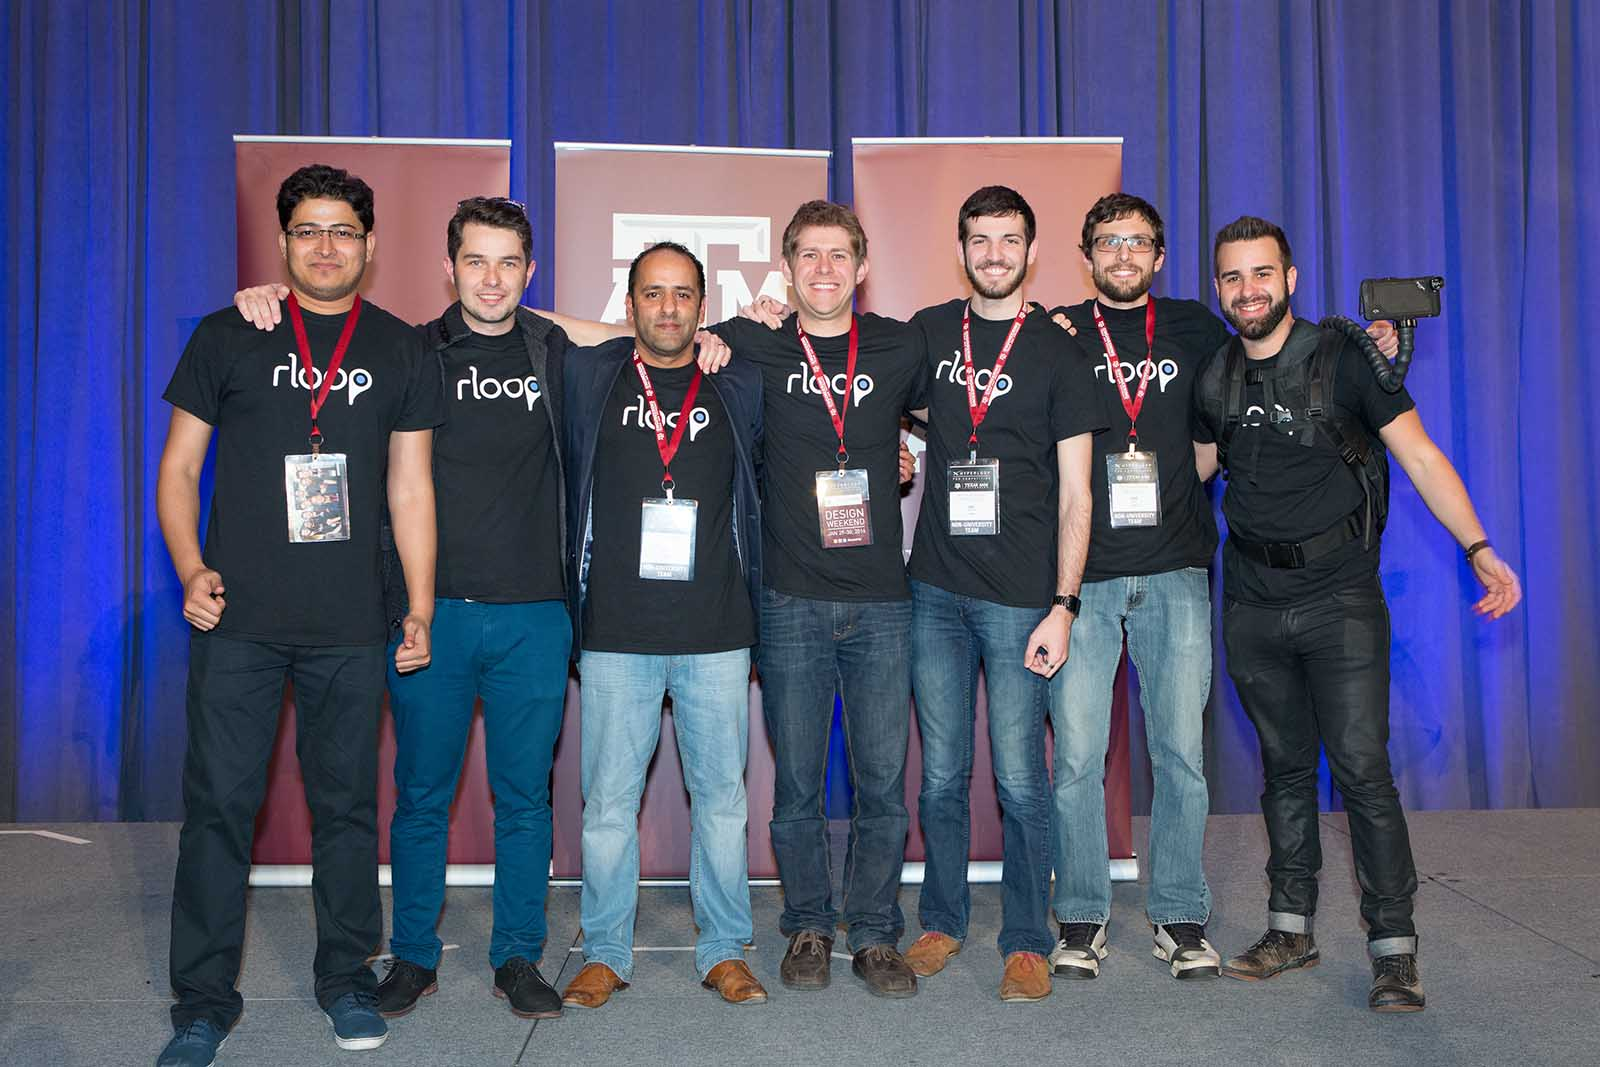
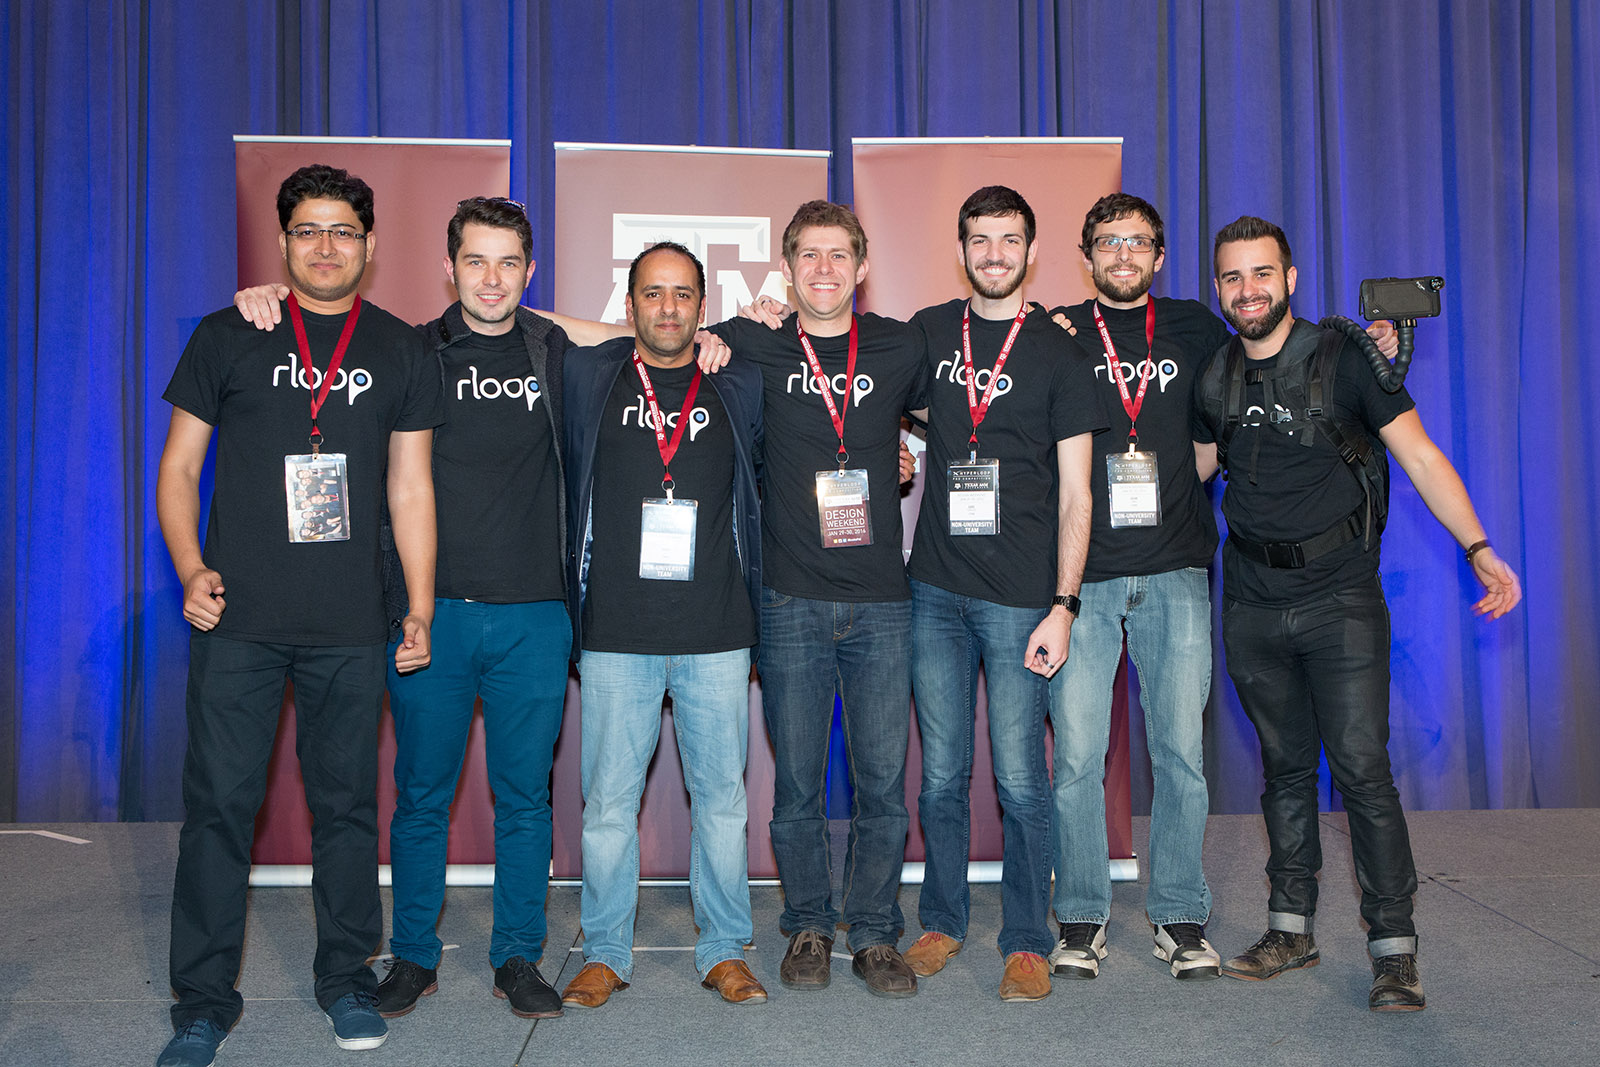
Fixed group image quality as well as styling. Also fixed other background images not showing

diff --git a/styles/main.css b/styles/main.css
@@ -385,12 +385,12 @@ img{
 }
 
 .group-image{
-  background: url('../assets/images/rloop-group.jpg');
+  background: -webkit-linear-gradient(top, rgba(125,185,232,0) 40%,rgb(114, 161, 216) 100%), url('../assets/images/rloop-group.jpg');
   -webkit-background-size: cover;
   -moz-background-size: cover;
   -o-background-size: cover;
   background-size: cover;
-  background-position: 50% -90px;
+  background-position: 50% 10%;
   color: white;
   background-repeat-x: no-repeat;
     background-repeat-y: no-repeat;
@@ -406,7 +406,7 @@ img{
     height: auto;
   }
   .group-image.content-div {
-    min-height: 200px;
+    min-height: 300px;
   }
 }
 
@@ -527,11 +527,11 @@ img{
   margin-top: 30px;
 }
 
-.team.title-header {
-  background-image: -webkit-linear-gradient(top,  rgba(125,185,232,0) 65%,rgba(30,87,153,1) 100%), url('../assets/images/rloop-psfk.com_.png-1.jpg');
+.team .title-header {
+  background-image: -webkit-linear-gradient(top,  rgba(125,185,232,0) 65%,rgba(30,87,153,1) 100%), url('../assets/images/rloop-group.jpg');
   background-size: initial;
   background-repeat: no-repeat;
-  background-position: 50% 50%;
+  background-position: 50% 20%;
   text-align: center;
   min-height: 330px;
   background-color: black;
@@ -611,7 +611,7 @@ img{
   }
 }
 
-.press.title-header {
+.press .title-header {
     height: 35vh;
     background-image: url('../assets/images/hyperloop-award-signed-by-elon-musk.jpg');
     background-size: cover;
